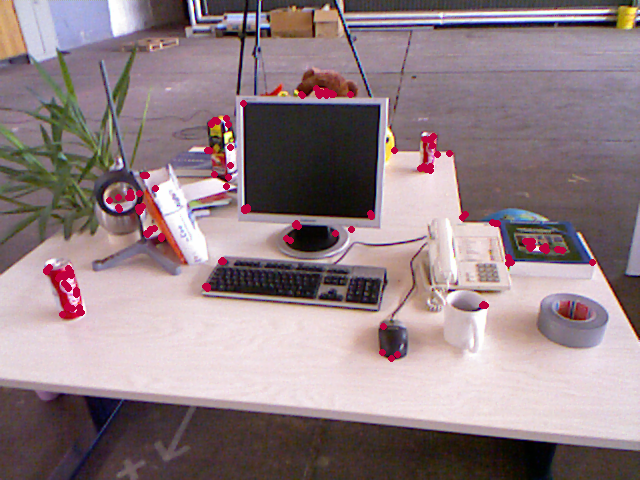
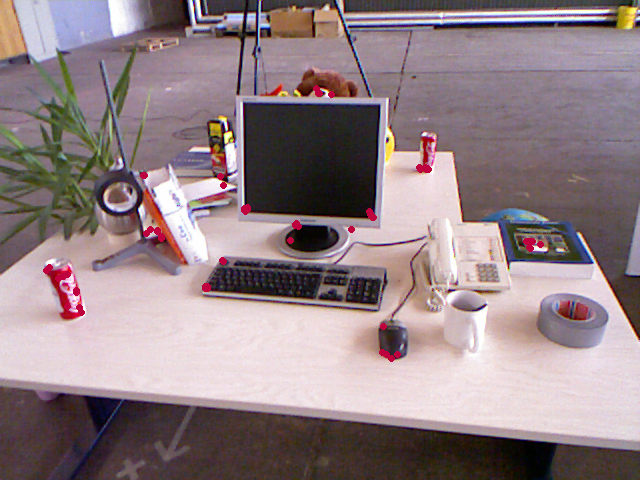
.

diff --git a/VOpartA06/TriangulationRGB.py b/VOpartA06/TriangulationRGB.py
@@ -1,0 +1,110 @@
+import cv2
+import numpy as np
+
+K = np.array([
+    [520.9, 0, 325.1],
+    [0, 521.0, 249.7],
+    [0, 0, 1]
+])
+distortions = np.zeros((4, 1))
+min_dist = 987654321.0
+max_dist = 0.0
+
+UPPER_BOUND = 50
+LOWER_BOUND = 10
+TR_RANGE = UPPER_BOUND - LOWER_BOUND
+
+def getColor(depth: np.ndarray):
+    if (depth > UPPER_BOUND):
+        depth = UPPER_BOUND;
+    if (depth < LOWER_BOUND):
+        depth = LOWER_BOUND;
+    return int(255 * depth / TR_RANGE), int(0), int(255 * (1 - depth / TR_RANGE))
+
+def pixel2Cam(p: tuple):
+    return [
+        (p[0] - K[0][2]) / K[0][0],
+        (p[1] - K[1][2]) / K[1][1]
+    ]
+
+
+if __name__ == "__main__":
+
+    imageA = cv2.imread('./data/1.png') # 오른쪽 사진
+    imageB = cv2.imread('./data/2.png') # 왼쪽 사진
+
+    gray1 = cv2.cvtColor(imageA, cv2.COLOR_BGR2GRAY)
+    gray2 = cv2.cvtColor(imageB, cv2.COLOR_BGR2GRAY)
+
+    detector = cv2.ORB_create()
+    kp1, desc1 = detector.detectAndCompute(gray1, None)
+    kp2, desc2 = detector.detectAndCompute(gray2, None)
+
+    FLANN_INDEX_LSH = 6
+    index_params= dict(algorithm = FLANN_INDEX_LSH,
+                    table_number = 6,
+                    key_size = 12,
+                    multi_probe_level = 1)
+    search_params=dict(checks=32)
+    matcher = cv2.FlannBasedMatcher(index_params, search_params)
+    matches = matcher.match(desc1, desc2)
+
+    pointsA = []
+    pointsB = []
+    pointCam1 = []
+    pointCam2 = []
+
+    for i, con in enumerate(desc1):
+        dist = matches[i].distance
+        min_dist = min(min_dist, dist)
+        max_dist = max(max_dist, dist)
+
+    for m in matches:
+        if (m.distance > max(2 * min_dist, 30.)):
+            continue
+        pointsA.append(kp1[m.queryIdx].pt)
+        pointsB.append(kp2[m.trainIdx].pt)
+        pointCam1.append(pixel2Cam(kp1[m.queryIdx].pt))
+        pointCam2.append(pixel2Cam(kp2[m.trainIdx].pt))
+    
+    pts1 = np.int32(pointsA)
+    pts2 = np.int32(pointsB)
+    E, mask = cv2.findEssentialMat(pts1, pts2, method=cv2.RANSAC, focal=521, maxIters=500, threshold=1)
+    points, R, t, mask, triP = cv2.recoverPose(E, pts1, pts2, K, distanceThresh=0.5)
+    T1 = np.concatenate([np.eye(3), np.zeros((3, 1))], axis=1)
+    T2 = np.concatenate([R, t], axis=1)
+    print(T1, T2, sep="\n")
+    
+    pointCam1 = np.array(pointCam1)
+    pointCam2 = np.array(pointCam2)
+    print(pointCam1.shape)
+    points4D = cv2.triangulatePoints(T1, T2, np.transpose(pointCam1), np.transpose(pointCam2))
+    
+    depthResultPoints = []
+    for i in range(pointCam1.shape[0]):
+        x = points4D[:, i]
+        x /= x[3]
+        ret = x[:3]
+        depthResultPoints.append(ret)
+    depthResultPoints = np.array(depthResultPoints)
+    print(depthResultPoints)
+    
+    retImg1 = imageA[:,:,:]
+    retImg2 = imageB[:,:,:]
+    i = 0
+    for j, m in enumerate(matches):
+        if (m.distance > max(2 * min_dist, 30.)):
+            continue
+        pt1 = pixel2Cam(kp1[m.queryIdx].pt)
+        depth1 = depthResultPoints[i][2]
+        cv2.circle(retImg1, (int(kp1[m.queryIdx].pt[0]), int(kp1[m.queryIdx].pt[1])), 2, getColor(depth1), 2)
+        
+        pt2 = np.expand_dims(np.array(depthResultPoints[i]), axis=1)
+        pt2 = R @ pt2 + t
+        depth2 = pt2[2]
+        cv2.circle(retImg2, (int(kp2[m.trainIdx].pt[0]), int(kp2[m.trainIdx].pt[1])), 2, getColor(depth2), 2)
+        i += 1
+    
+    cv2.imwrite('./data/triangulation1.png', retImg1)
+    cv2.imwrite('./data/triangulation2.png', retImg2)
+        

diff --git a/VOpartA06/ICPRGBD.py b/VOpartA06/ICPRGBD.py
@@ -1,0 +1,95 @@
+import cv2
+import numpy as np
+from numpy.linalg import svd, det
+
+K = np.array([
+    [520.9, 0, 325.1],
+    [0, 521.0, 249.7],
+    [0, 0, 1]
+])
+min_dist = 987654321.0
+max_dist = 0.0
+
+def pixel2Cam(p: tuple):
+    return (
+        (p[0] - K[0][2]) / K[0][0],
+        (p[1] - K[1][2]) / K[1][1]
+    )
+
+def ICP(pair1: list, pair2: list):
+    N = len(pair1)
+    center1 = np.array([0., 0., 0.])
+    center2 = np.array([0., 0., 0.])
+    for i in range(N):
+        center1 += np.array(pair1[i])
+        center2 += np.array(pair2[i])
+    center1 /= N; center2 /= N
+    
+    q1 = []
+    q2 = []
+    for i in range(N):
+        q1.append(np.array(pair1[i]) - center1)
+        q2.append(np.array(pair2[i]) - center2)
+    
+    W = np.zeros((3, 3))
+    for i in range(N):
+        vec1 = np.expand_dims(q1[i], axis=1)
+        vec2 = np.expand_dims(q2[i], axis=0)
+        W += vec1 @ vec2
+    U, _, Vt = svd(W)
+    R = U @ Vt
+    if det(R) < 0:
+        R = -R
+    t = np.expand_dims(center1, axis=1) - (R @ np.expand_dims(center2, axis=1))
+    return R, t
+    
+
+if __name__ == "__main__":
+
+    imageA = cv2.imread('./data/1.png') # 오른쪽 사진
+    imageB = cv2.imread('./data/2.png') # 왼쪽 사진
+    imageADepth = cv2.imread('./data/1_depth.png', cv2.IMREAD_UNCHANGED) # 오른쪽 사진 RGB-D Depth Image
+    imageBDepth = cv2.imread('./data/2_depth.png', cv2.IMREAD_UNCHANGED) # 왼쪽 사진 RGB-D Depth Image
+
+    gray1 = cv2.cvtColor(imageA, cv2.COLOR_BGR2GRAY)
+    gray2 = cv2.cvtColor(imageB, cv2.COLOR_BGR2GRAY)
+
+    detector = cv2.ORB_create()
+    kp1, desc1 = detector.detectAndCompute(gray1, None)
+    kp2, desc2 = detector.detectAndCompute(gray2, None)
+
+    FLANN_INDEX_LSH = 6
+    index_params= dict(algorithm = FLANN_INDEX_LSH,
+                    table_number = 6,
+                    key_size = 12,
+                    multi_probe_level = 1)
+    search_params=dict(checks=32)
+    matcher = cv2.FlannBasedMatcher(index_params, search_params)
+    matches = matcher.match(desc1, desc2)
+
+    points3DA = []
+    points3DB = []
+
+    for i, con in enumerate(desc1):
+        dist = matches[i].distance
+        min_dist = min(min_dist, dist)
+        max_dist = max(max_dist, dist)
+
+    for m in matches:
+        if (m.distance > max(2 * min_dist, 30.)):
+            continue
+        x1, y1 = int(kp1[m.queryIdx].pt[0]), int(kp1[m.queryIdx].pt[1])
+        x2, y2 = int(kp2[m.trainIdx].pt[0]), int(kp2[m.trainIdx].pt[1])
+        d1, d2 = imageADepth[y1][x1], imageBDepth[y2][x2]
+        if (d1 == 0) or (d2 == 0):
+            continue
+        p1 = pixel2Cam(kp1[m.queryIdx].pt)
+        p2 = pixel2Cam(kp2[m.trainIdx].pt)
+        dd1 = d1 / 5000.0; dd2 = d2 / 5000.0
+        points3DA.append((p1[0] * dd1, p1[1] * dd1, dd1))
+        points3DB.append((p2[0] * dd2, p2[1] * dd2, dd2))
+    
+    print("The number of matched point pairs:", len(points3DA))
+    R, t = ICP(points3DA, points3DB)
+    print("Rotation Matrix: ", R)
+    print("Translation Vector: ", t)

diff --git a/VOpartA06/PnPRGBD.py b/VOpartA06/PnPRGBD.py
@@ -1,0 +1,68 @@
+import cv2
+import numpy as np
+
+K = np.array([
+    [520.9, 0, 325.1],
+    [0, 521.0, 249.7],
+    [0, 0, 1]
+])
+distortions = np.zeros((4, 1))
+min_dist = 987654321.0
+max_dist = 0.0
+
+def pixel2Cam(p: tuple):
+    return (
+        (p[0] - K[0][2]) / K[0][0],
+        (p[1] - K[1][2]) / K[1][1]
+    )
+
+
+if __name__ == "__main__":
+
+    imageA = cv2.imread('./data/1.png') # 오른쪽 사진
+    imageB = cv2.imread('./data/2.png') # 왼쪽 사진
+    imageADepth = cv2.imread('./data/1_depth.png', cv2.IMREAD_UNCHANGED) # 오른쪽 사진 RGB-D Depth Image
+    imageBDepth = cv2.imread('./data/2_depth.png', cv2.IMREAD_UNCHANGED) # 왼쪽 사진 RGB-D Depth Image
+
+    gray1 = cv2.cvtColor(imageA, cv2.COLOR_BGR2GRAY)
+    gray2 = cv2.cvtColor(imageB, cv2.COLOR_BGR2GRAY)
+
+    detector = cv2.ORB_create()
+    kp1, desc1 = detector.detectAndCompute(gray1, None)
+    kp2, desc2 = detector.detectAndCompute(gray2, None)
+
+    FLANN_INDEX_LSH = 6
+    index_params= dict(algorithm = FLANN_INDEX_LSH,
+                    table_number = 6,
+                    key_size = 12,
+                    multi_probe_level = 1)
+    search_params=dict(checks=32)
+    matcher = cv2.FlannBasedMatcher(index_params, search_params)
+    matches = matcher.match(desc1, desc2)
+
+    points3D = []
+    points2D = []
+
+    for i, con in enumerate(desc1):
+        dist = matches[i].distance
+        min_dist = min(min_dist, dist)
+        max_dist = max(max_dist, dist)
+
+    for m in matches:
+        if (m.distance > max(2 * min_dist, 30.)):
+            continue
+        x, y = int(kp1[m.queryIdx].pt[0]), int(kp1[m.queryIdx].pt[1])
+        d = imageADepth[y][x]
+        if d == 0:
+            continue
+        dd = d / 5000.0
+        p1 = pixel2Cam(kp1[m.queryIdx].pt)
+        points3D.append((p1[0] * dd, p1[1] * dd, dd))
+        points2D.append(kp2[m.trainIdx].pt)
+    
+    print(len(points3D))
+    success, vector_rotation, vector_translation = cv2.solvePnP(
+        np.array(points3D), np.array(points2D), K, distortions, flags=0
+    )
+    rotationMatrix, _ = cv2.Rodrigues(vector_rotation)
+    print(rotationMatrix, vector_rotation, vector_translation, sep="\n")
